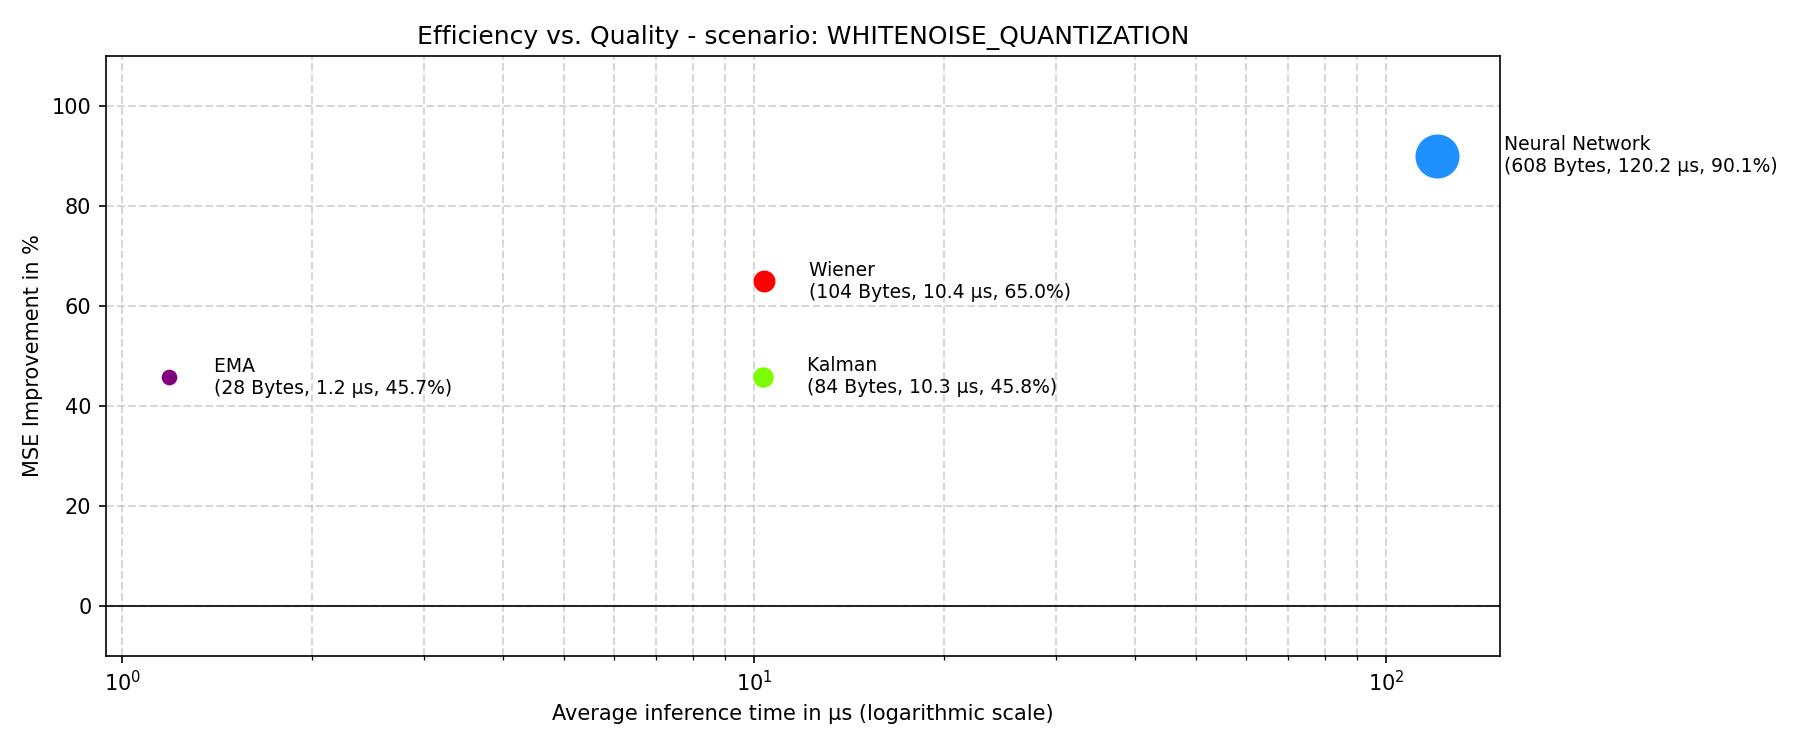
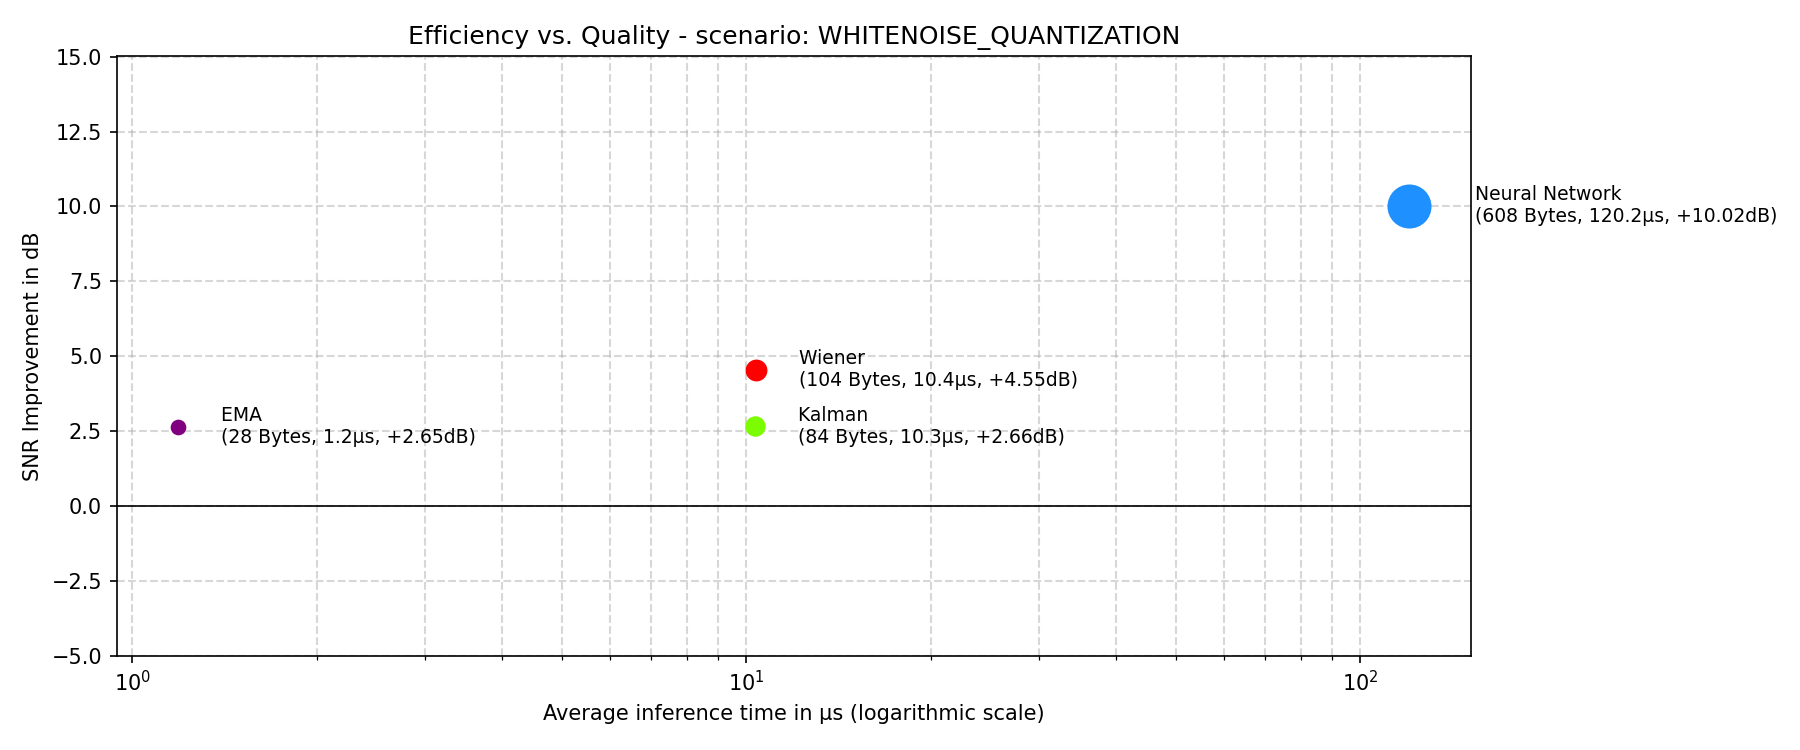
Change efficiency plot to SNR

diff --git a/network/run_evaluation.py b/network/run_evaluation.py
@@ -149,22 +149,22 @@ def plot_efficiency(path, scenario, data, memory):
     colors = {"nn": "dodgerblue", "kalman": "lawngreen", "wiener": "red", "ema": "purple"}
     labels = {"nn": "Neural Network", "kalman": "Kalman", "wiener": "Wiener", "ema": "EMA"}
 
-    for algorithm, (time_us, imp_pct) in data.items():
+    for algorithm, (time_us, imp) in data.items():
         flash = memory.get(algorithm, {}).get("flash", 0)
         size = 100 + (flash * 2.5)
 
-        plt.scatter(time_us, imp_pct, color=colors[algorithm], marker=".", s=size, label=labels[algorithm], zorder=3)
+        plt.scatter(time_us, imp, color=colors[algorithm], marker=".", s=size, label=labels[algorithm], zorder=3)
         text_off = 1.25 if algorithm == "nn" else 1.15
-        plt.text(time_us * text_off, imp_pct, f" {labels[algorithm]}\n ({flash} Bytes, {time_us:.1f} μs, {imp_pct:.1f}%)", fontsize=9, verticalalignment="center", zorder=4)
+        plt.text(time_us * text_off, imp, f" {labels[algorithm]}\n ({flash} Bytes, {time_us:.1f}μs, {imp:+.2f}dB)", fontsize=9, verticalalignment="center", zorder=4)
 
     plt.xscale("log")
     plt.grid(True, linestyle="--", alpha=0.5, linewidth=1, which="both")
     plt.title(f"Efficiency vs. Quality - scenario: {scenario.upper()}")
     plt.xlabel("Average inference time in μs (logarithmic scale)")
-    plt.ylabel("MSE Improvement in %")
+    plt.ylabel("SNR Improvement in dB")
 
-    all_pct = [v[1] for v in data.values()]
-    plt.ylim(min(all_pct) - 20 if min(all_pct) < 0 else -10, max(all_pct) + 20)
+    all = [v[1] for v in data.values()]
+    plt.ylim(min(all) - 5 if min(all) < 0 else -5, max(all) + 5)
     plt.axhline(0, color="black", linewidth=0.8, linestyle="-")
 
     plt.tight_layout()
@@ -372,7 +372,7 @@ def run_hardware_evaluation():
 
                         # plot data
                         mse_imp_percent = (mse_imp / mse_noise) * 100
-                        efficiency_data[algorithm] = (avg_inference_time_algorithm, mse_imp_percent)
+                        efficiency_data[algorithm] = (avg_inference_time_algorithm, snr_imp)
                         error_data[scenario][algorithm] = mse_imp_percent
                         snr_data[scenario][algorithm] = snr_imp
 
